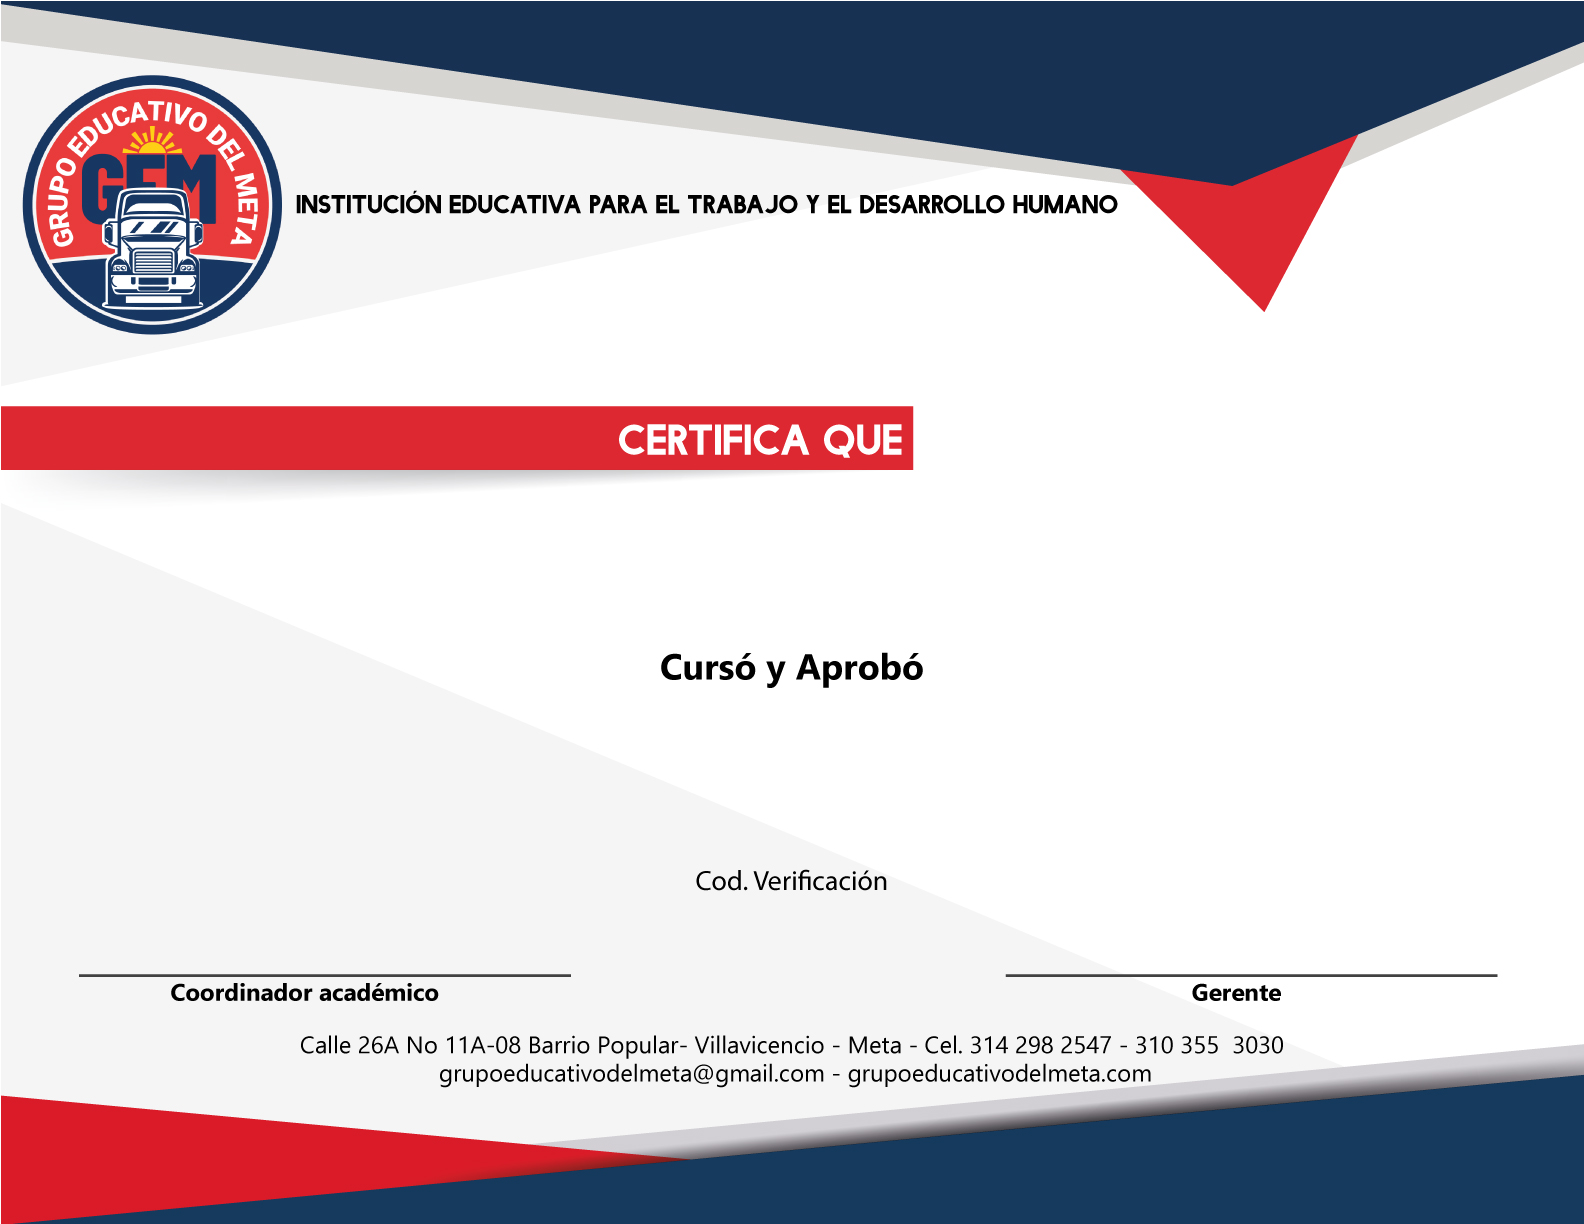
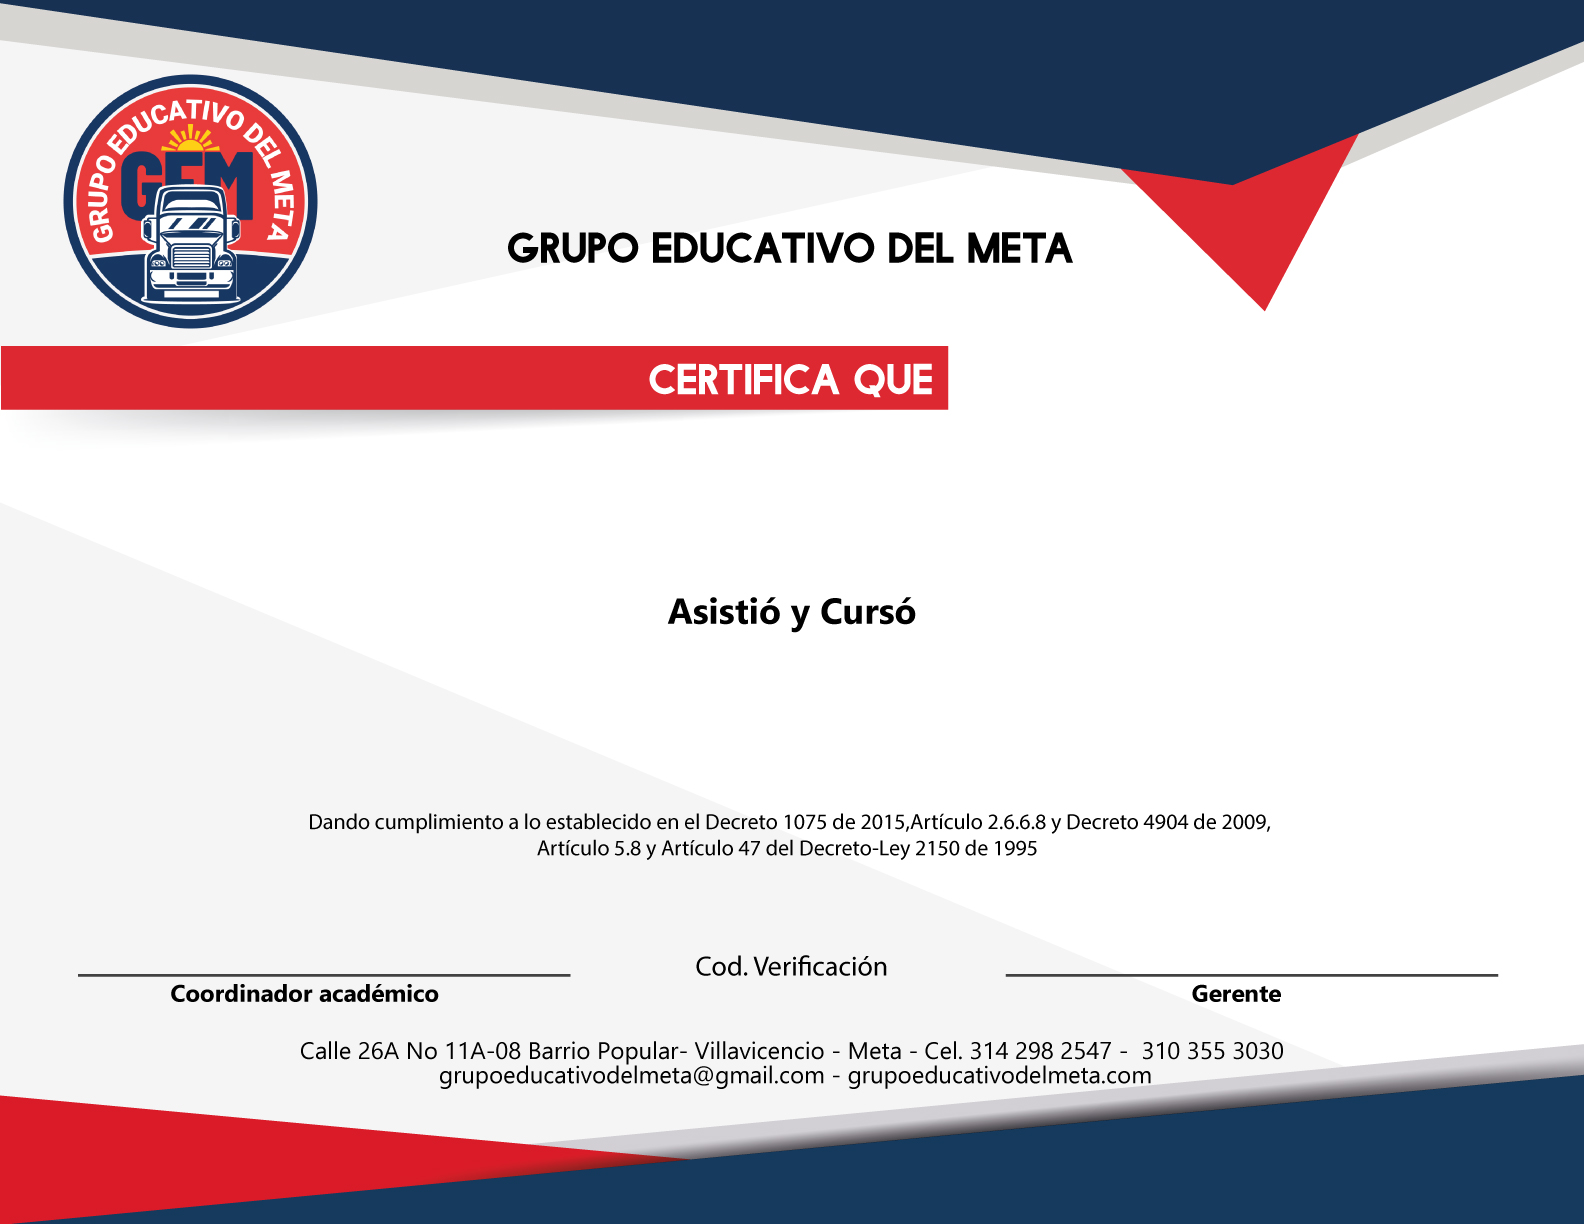
feat: update PDF generation with new font and image adjustments

diff --git a/certificado.php b/certificado.php
@@ -71,11 +71,13 @@ try {
 
 class PDF extends FPDF
 {
-    function Header() {
+    function Header()
+    {
         $this->SetFont('Helvetica', 'B', 10);
     }
 
-    function Footer() {
+    function Footer()
+    {
         $this->SetY(-20);
         $this->SetFont('Arial', 'I', 10);
     }
@@ -83,6 +85,8 @@ class PDF extends FPDF
 
 $pdf = new PDF('L', 'mm', 'Letter');
 $pdf->AddPage();
+
+$pdf->AddFont('DejaVuSansCondensed-Bold', '', 'DejaVuSansCondensed-Bold.php');
 
 if (file_exists('assets/images/bgcerti.jpg')) {
     $pdf->Image('assets/images/bgcerti.jpg', 2, 3, 275, 210);
@@ -94,14 +98,14 @@ if ($rowusr2['perfil'] == "convenio" && $rowusr2['foto'] <> "") {
     }
 }
 
-$pdf->Ln(83);
-$pdf->SetFont('Arial', 'B', 20);
+$pdf->Ln(73);
+$pdf->SetFont('DejaVuSansCondensed-Bold', '', 20);
 $pdf->Cell(260, 5, mb_convert_encoding(strtoupper($cliente['Nombres'] . " " . $cliente['Apellidos']), 'ISO-8859-1', 'UTF-8'), 0, 1, 'C');
 $pdf->Ln(3);
 $pdf->SetTextColor(0, 0, 0);
 $pdf->SetFont('Arial', 'B', 12);
 
-$cedula = $cliente['Identificacion'];
+$cedula = $cliente['Identificacion']. " de " . ($cliente['Lugarid'] ?? '');
 $tipo_id = $cliente['Tipo_Identificacion'] ?? 'CC';
 
 if ($tipo_id == "CC" || $tipo_id == "") {
@@ -135,6 +139,7 @@ if (strlen($courseName) > 44) {
             $linea1 .= $palabra . " ";
         }
     }
+    $pdf->SetFont('DejaVuSansCondensed-Bold', '', 18);
     $pdf->Ln(9);
     $pdf->Cell(260, 6, mb_convert_encoding(strtoupper(strtolower($linea1)), 'ISO-8859-1', 'UTF-8'), 0, 1, 'C');
     $pdf->Cell(260, 5, mb_convert_encoding(strtoupper(strtolower($linea2)), 'ISO-8859-1', 'UTF-8'), 0, 1, 'C');
@@ -142,7 +147,7 @@ if (strlen($courseName) > 44) {
     $pdf->Ln(1);
 } else {
     $pdf->Ln(12);
-    $pdf->SetFont('Arial', 'B', 20);
+    $pdf->SetFont('DejaVuSansCondensed-Bold', '', 20);
     $pdf->Cell(260, 8, mb_convert_encoding($courseName, 'ISO-8859-1', 'UTF-8'), 0, 1, 'C');
     $pdf->Ln(6);
 }
@@ -156,7 +161,7 @@ if ($fvencimiento !== "") {
 } else {
     $pdf->Cell(260, 6, mb_convert_encoding("Se expide el día " . date('d-m-Y', strtotime($codigofecha)), 'ISO-8859-1', 'UTF-8'), 0, 1, 'C');
 }
-$pdf->Ln(6);
+$pdf->Ln(30);
 
 $pdf->SetFont('Arial', 'B', 14);
 $pdf->Cell(260, 6, $idElemento, 0, 1, 'C');
@@ -164,4 +169,3 @@ $pdf->Cell(260, 6, $idElemento, 0, 1, 'C');
 $nom_arc = "Certificado - " . $cliente['Nombres'] . " " . $cliente['Apellidos'] . " - " . $idElemento . ".pdf";
 ob_end_clean();
 $pdf->Output($nom_arc, 'I');
-?>
